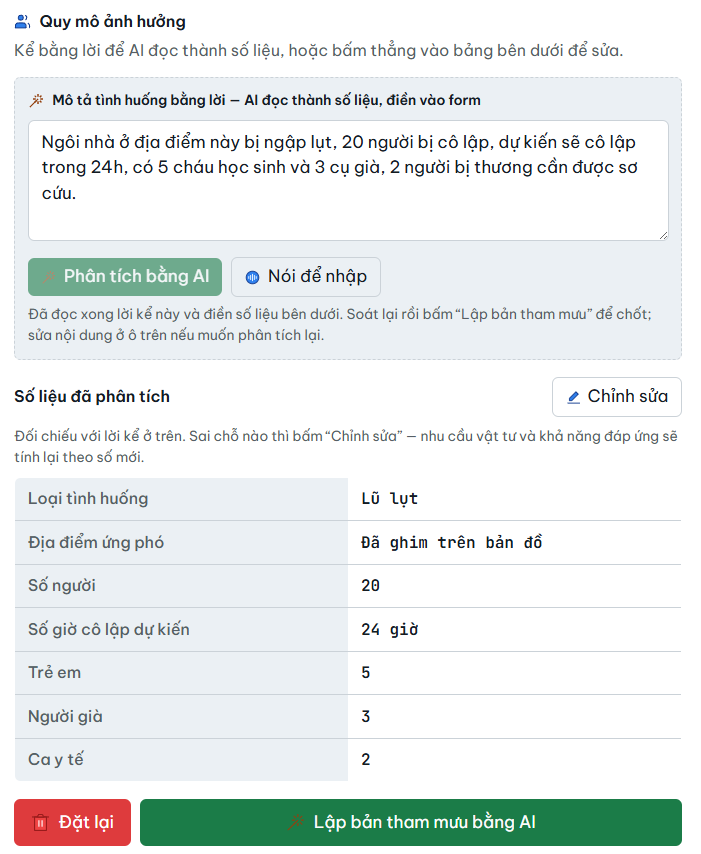
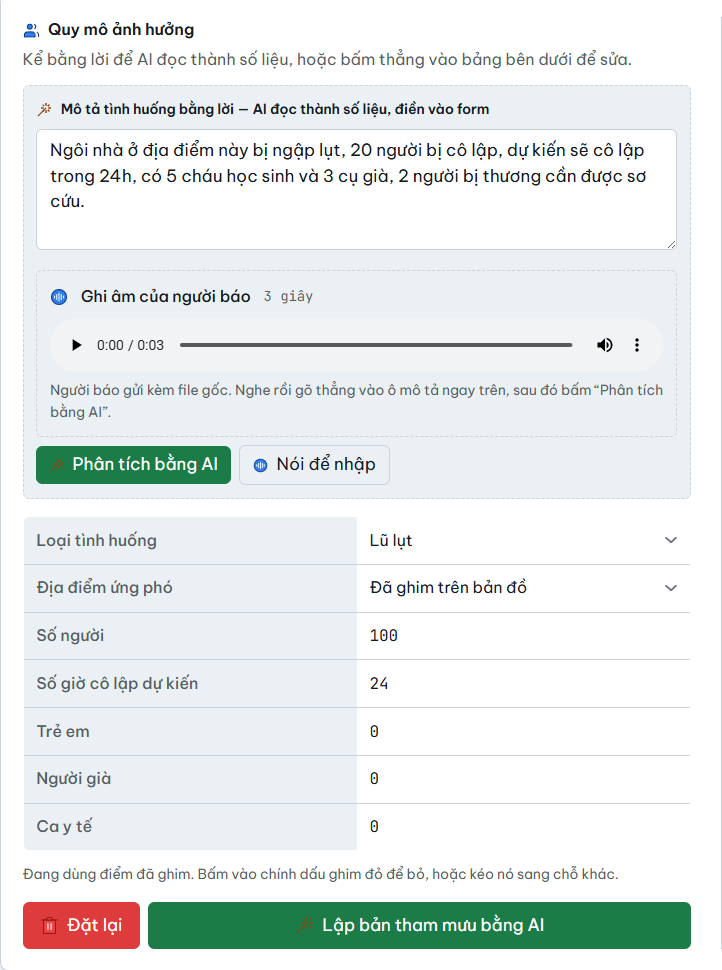
slide: thêm ảnh chụp màn hình và bo góc ảnh cho bộ slide
- Slide 9 ghép hai ảnh màn hình (AI tham mưu, phân tích tình huống) nối bằng
  mũi tên; slide 11 thay bằng ảnh thứ tự lấy hàng kèm bản đồ tuyến; thêm ảnh
  cho slide 5, 13 (điện thoại kho và đội cứu hộ) và 23 (trợ lý AI).
- prep-anh: hỗ trợ extract, nhiều khung cắt từ một ảnh gốc, xuất PNG phóng
  to và làm sắc cho ảnh chụp màn hình để chữ không nhoè khi chiếu.
- Ba bộ render (pptx, pdf, svg) bo góc ảnh theo bán kính card; check.js báo
  dòng chữ rộng hơn khung.

Changed region(s): [[0.0, 0.0304, 1.0, 1.0], [0.0, 0.0, 0.8987, 0.2436], [0.9287, 0.1522, 0.9586, 0.274]]

diff --git a/slide-ung-pho-nhanh/nguon-tao-slide/anh-config.js b/slide-ung-pho-nhanh/nguon-tao-slide/anh-config.js
@@ -7,9 +7,24 @@ module.exports = {
   'hien-truong-2': { w: 3.72, h: 2.7, label: 'ẢNH HIỆN TRƯỜNG 2' },
   'hien-truong-3': { w: 3.72, h: 2.7, label: 'ẢNH HIỆN TRƯỜNG 3' },
   // văn bản A4 dọc: khung để đúng tỷ lệ dọc và cắt từ mép trên để không mất phần đầu thư
-  'thu-quan-tam': { w: 3.2, h: 4.05, label: 'ẢNH CHỤP THƯ QUAN TÂM', position: 'top' },
-  // ảnh chụp màn hình 701×854: khung giữ đúng tỷ lệ gốc để không cắt mất chữ, dpi cao để chữ trên giao diện còn nét
-  'ai-tham-muu': { w: 3.152, h: 3.84, label: 'ẢNH MÀN HÌNH AI THAM MƯU', position: 'top', dpi: 225 },
-  // ảnh chụp màn hình 723×532 cho slide 11 (chọn kho): giữ đúng tỷ lệ, dpi ≈ độ phân giải gốc để khỏi phóng to
-  'chon-kho': { w: 5.4, h: 3.973, label: 'ẢNH MÀN HÌNH THỨ TỰ LẤY HÀNG', position: 'top', dpi: 134 },
+  // extract: cắt bỏ lề trắng của bản scan (vùng chữ + lề 50px) trước khi đưa về khung, để chữ trong thư to hơn
+  'thu-quan-tam': { w: 3.29, h: 4.38, label: 'ẢNH CHỤP THƯ QUAN TÂM', position: 'top', extract: { left: 194, top: 142, width: 1331, height: 1774 } },
+  // slide 9: hai ảnh chụp màn hình thật giữ NGUYÊN VẸN (không cắt), cao hết vùng thân slide (5.04in), nối bằng mũi tên:
+  // form AI tham mưu kèm ghi âm người báo (722×970) → phân tích tình huống và tham mưu điều phối (1435×1143); dpi = độ phân giải gốc
+  'ai-tham-muu': { w: 3.751, h: 5.04, label: 'ẢNH MÀN HÌNH AI THAM MƯU', position: 'top', dpi: 192 },
+  'phan-tich-tinh-huong': { w: 6.328, h: 5.04, label: 'ẢNH PHÂN TÍCH TÌNH HUỐNG', position: 'top', dpi: 227 },
+  // ảnh chụp màn hình 1797×972 cho slide 11 (thứ tự lấy hàng + bản đồ tuyến): bỏ dòng tiêu đề khung "Điều phối kho…"
+  // ở trên và lề hai bên (extract 1762×885); khung cao hết cỡ chỉ chừa một dòng ghi chú bên dưới
+  'chon-kho': { w: 9.248, h: 4.645, label: 'ẢNH MÀN HÌNH THỨ TỰ LẤY HÀNG', position: 'top', dpi: 191, extract: { left: 18, top: 72, width: 1762, height: 885 } },
+  // slide 13 (không card): ba ảnh điện thoại cao bằng nhau 4.452in, nằm trong hai khung màu theo vai trò.
+  // Bộ phận kho (gốc 438×885, nhiệm vụ 856): bỏ phần "Quay lại / Chi tiết nhiệm vụ", giữ hai dòng vật tư đầu.
+  // Đội cứu hộ: bản đồ điểm gặp nạn (gốc 440×618, bỏ nút "Thu gọn bản đồ") và danh sách kho kèm trạng thái
+  // (gốc 438×817, 8 kho; bỏ dòng tiêu đề và mô tả phía trên). Cả ba bỏ lề trắng hai bên; dpi = độ phân giải gốc
+  'kho-chuan-bi': { w: 3.184, h: 4.452, label: 'ẢNH KHO CHUẨN BỊ VẬT TƯ', position: 'top', dpi: 133, extract: { left: 8, top: 66, width: 422, height: 590 } },
+  'doi-cuu-ho-ban-do': { src: 'doi-cuu-ho', w: 3.341, h: 4.452, label: 'ẢNH BẢN ĐỒ ĐỘI CỨU HỘ', position: 'top', dpi: 127, extract: { left: 8, top: 0, width: 424, height: 565 } },
+  'doi-cuu-ho-kho': { w: 2.528, h: 4.452, label: 'ẢNH TRẠNG THÁI TỪNG KHO', position: 'top', dpi: 165, extract: { left: 10, top: 78, width: 418, height: 736 } },
+  // ảnh chụp màn hình trợ lý AI cho slide 23, đã cắt còn 758×530 (bỏ nền trống và ô nhập): khung giữ đúng tỷ lệ gốc
+  'tro-ly-ai': { w: 4.577, h: 3.2, label: 'ẢNH MÀN HÌNH TRỢ LÝ AI', position: 'top', dpi: 166 },
+  // ảnh cán bộ kiểm đếm vật tư bằng sổ tay cho slide 5, gốc 888×666: cắt từ mép trên để giữ gương mặt và cuốn sổ
+  'kho-khan': { w: 4.45, h: 2.6, label: 'ẢNH KIỂM ĐẾM VẬT TƯ THỦ CÔNG', position: 'top', dpi: 199, format: 'jpg' },
 };

diff --git a/slide-ung-pho-nhanh/nguon-tao-slide/prep-anh.js b/slide-ung-pho-nhanh/nguon-tao-slide/prep-anh.js
@@ -1,23 +1,35 @@
-// Cắt ảnh thực tế trong anh/ về đúng tỷ lệ từng khung slide -> anh/da-cat/<slot>.jpg
+// Cắt ảnh thực tế trong anh/ về đúng tỷ lệ từng khung slide -> anh/da-cat/<slot>.jpg (ảnh chụp màn hình: .png)
 const fs = require('fs');
 const path = require('path');
 const sharp = require('sharp');
 const PHOTOS = require('./anh-config');
 
-const SRC = 'anh', OUT = 'anh/da-cat', DPI = 200;
+const SRC = 'anh', OUT = 'anh/da-cat', DPI = 200, SHOT_SCALE = 2;
 const EXT = ['.jpg', '.jpeg', '.png', '.webp', '.heic'];
 
 (async () => {
   fs.mkdirSync(OUT, { recursive: true });
   let done = 0, missing = [];
-  for (const [slot, { w, h, position, dpi = DPI }] of Object.entries(PHOTOS)) {
-    const src = EXT.map((e) => path.join(SRC, slot + e)).find((f) => fs.existsSync(f));
+  for (const [slot, { w, h, position, extract, format, src: base = slot, dpi = DPI }] of Object.entries(PHOTOS)) {
+    // src: tên ảnh gốc khi nhiều khung cùng cắt từ một ảnh (mặc định trùng tên khung)
+    const src = EXT.map((e) => path.join(SRC, base + e)).find((f) => fs.existsSync(f));
     if (!src) { missing.push(slot); continue; }
-    await sharp(src)
-      .rotate() // tôn trọng hướng ảnh chụp từ điện thoại
-      .resize(Math.round(w * dpi), Math.round(h * dpi), { fit: 'cover', position: position || 'attention' })
-      .jpeg({ quality: 88 })
-      .toFile(path.join(OUT, slot + '.jpg'));
+    const img = sharp(src).rotate(); // tôn trọng hướng ảnh chụp từ điện thoại
+    if (extract) img.extract(extract); // cắt sẵn một vùng của ảnh gốc (vd bỏ lề trắng bản scan)
+    // Ảnh chụp màn hình (.png): chữ nhỏ và nét mảnh, JPEG làm nhoè cạnh chữ và ảnh gốc thường chỉ ~130–170 px/in trên
+    // slide nên máy chiếu 1920px phải phóng to -> mờ. Xuất PNG không mất nét, phóng đúng SHOT_SCALE lần (lanczos3) từ
+    // đúng số px gốc để khỏi co giãn lẻ; ảnh chụp thật (.jpg) giữ JPEG như cũ.
+    // format: 'jpg' cho ảnh chụp thật lỡ lưu dạng .png (vd dán từ clipboard) để khỏi thành PNG nặng
+    const shot = format ? format === 'png' : src.endsWith('.png');
+    // ảnh chụp màn hình ít điểm ảnh (dưới 190 px/in trên slide, vd ảnh điện thoại ~440px) phóng 3 lần, còn lại 2 lần;
+    // làm sắc nhẹ sau khi phóng để cạnh chữ không nhoè khi chiếu trên màn hình độ phân giải cao
+    const scale = dpi < 190 ? 3 : SHOT_SCALE;
+    const d = shot ? dpi * scale : dpi;
+    let out = img.resize(Math.round(w * d), Math.round(h * d), { fit: 'cover', position: position || 'attention', kernel: 'lanczos3' });
+    if (shot) out = out.sharpen({ sigma: 1.1, m1: 0.6, m2: 2.2 });
+    const file = path.join(OUT, slot + (shot ? '.png' : '.jpg'));
+    for (const old of ['.png', '.jpg'].map((e) => path.join(OUT, slot + e))) if (old !== file && fs.existsSync(old)) fs.unlinkSync(old);
+    await (shot ? out.png({ compressionLevel: 9 }) : out.jpeg({ quality: 88 })).toFile(file);
     console.log('✓', slot, '<-', src);
     done++;
   }

diff --git a/slide-ung-pho-nhanh/nguon-tao-slide/render-pptx.js b/slide-ung-pho-nhanh/nguon-tao-slide/render-pptx.js
@@ -1,4 +1,5 @@
 // Editable PowerPoint: every text block stays a real text box in Be Vietnam Pro.
+const fs = require('fs');
 const pptxgen = require('pptxgenjs');
 const { SW, SH, PPT_BOLD } = require('./core');
 const slides = require('./slides');
@@ -52,4 +53,28 @@ slides.forEach((s, idx) => {
   if (s.notes) slide.addNotes(s.notes);
 });
 
-pres.writeFile({ fileName: 'Ung-Pho-Nhanh-Slide.pptx' }).then((f) => console.log('pptx written:', f));
+// pptxgenjs chỉ bo ảnh thành elip, nên ảnh có e.r > 0 được đổi prstGeom rect -> roundRect ngay trong XML.
+// Ảnh trong slide XML nằm đúng thứ tự các phần tử img của slide, nên ghép theo thứ tự.
+const JSZip = require('jszip');
+(async () => {
+  const zip = await JSZip.loadAsync(await pres.write({ outputType: 'nodebuffer' }));
+  let rounded = 0;
+  for (let i = 0; i < slides.length; i++) {
+    const imgs = slides[i].els.filter((e) => e.t === 'img');
+    if (!imgs.some((e) => e.r > 0)) continue;
+    const name = `ppt/slides/slide${i + 1}.xml`;
+    let n = 0;
+    const xml = (await zip.file(name).async('string')).replace(/<p:pic>[\s\S]*?<\/p:pic>/g, (pic) => {
+      const e = imgs[n++];
+      if (!e || !(e.r > 0)) return pic;
+      const adj = Math.round((e.r / Math.min(e.w, e.h)) * 100000);
+      rounded++;
+      return pic.replace('<a:prstGeom prst="rect"><a:avLst/></a:prstGeom>',
+        `<a:prstGeom prst="roundRect"><a:avLst><a:gd name="adj" fmla="val ${adj}"/></a:avLst></a:prstGeom>`);
+    });
+    if (n !== imgs.length) throw new Error(`slide ${i + 1}: ${n} ảnh trong XML, ${imgs.length} ảnh trong nguồn`);
+    zip.file(name, xml);
+  }
+  fs.writeFileSync('Ung-Pho-Nhanh-Slide.pptx', await zip.generateAsync({ type: 'nodebuffer', compression: 'DEFLATE' }));
+  console.log('pptx written: Ung-Pho-Nhanh-Slide.pptx, bo góc', rounded, 'ảnh');
+})();

diff --git a/slide-ung-pho-nhanh/nguon-tao-slide/check.js b/slide-ung-pho-nhanh/nguon-tao-slide/check.js
@@ -5,9 +5,19 @@ let bad = 0;
 slides.forEach((s, i) => s.els.forEach((e) => {
   const full = e.w >= 13 && e.h >= 7;           // ảnh nền / lớp phủ
   const chromeRule = e.t === 'rect' && Math.abs(e.y + e.h - 6.87) < 0.02;
-  const footer = e.t === 'text' && e.lines && e.lines[0] === 'ungphonhanh.life';
+  // chân trang: địa chỉ web bên phải, dòng nguồn ảnh (nếu có) bên trái
+  const footer = e.t === 'text' && e.lines && (e.lines[0] === 'ungphonhanh.life' || (e.y >= 6.95 && /^Nguồn/.test(e.lines[0])));
   if (full || chromeRule || footer) return;
   const bot = e.y + (e.h || 0);
   if (bot > LIMIT) { bad++; console.log(`slide${i + 1} ${e.t} đáy ${bot.toFixed(2)}`, e.t === 'text' ? JSON.stringify(e.lines[0]).slice(0, 45) : ''); }
+}));
+// dòng chữ dài hơn khung (thường do tự ngắt dòng bằng lines): PowerPoint sẽ tự xuống dòng và đẩy chữ tràn khỏi khung
+const { widthOf } = require('./core');
+slides.forEach((s, i) => s.els.forEach((e) => {
+  if (e.t !== 'text') return;
+  for (const ln of e.lines) {
+    const lw = widthOf(ln, e.size, e.weight, e.spacing || 0);
+    if (lw > e.w + 0.1) { bad++; console.log(`slide${i + 1} dòng rộng ${lw.toFixed(2)} > khung ${e.w.toFixed(2)}:`, JSON.stringify(ln).slice(0, 60)); }
+  }
 }));
 console.log(bad ? `${bad} phần tử tràn` : `✓ ${slides.length} slide sạch`);

diff --git a/slide-ung-pho-nhanh/nguon-tao-slide/hieu-ung-chu.js b/slide-ung-pho-nhanh/nguon-tao-slide/hieu-ung-chu.js
@@ -20,6 +20,7 @@ const MAX_STEP = 220;   // giãn cách tối đa giữa hai khối (ms)
 function isStatic(e) {
   if (e.w >= 13 && e.h >= 7) return true;                          // nền, scrim, lớp phủ
   if (e.t === 'img' && /mark-sm|logo-sm/.test(e.src)) return true; // logo thương hiệu
+  if (e.hdr) return true;                                           // nhãn dòng chữ xanh ở hàng đầu: hiện sẵn để nhìn vào trước
   if (e.t === 'rect' && e.h <= 0.02) return true;                  // vạch kẻ mảnh
   if (e.t === 'text') {
     const s = (e.lines && e.lines[0]) || '';
@@ -74,7 +75,8 @@ function groupsOf(els) {
     const p = els[i - 1];
     if (e.t === 'rect' && p && prevGi >= 0 && Math.abs(p.x - e.x) < 0.03 && Math.abs(p.y - e.y) < 0.03
       && Math.abs(p.w - e.w) < 0.03 && Math.abs((p.h || 0) - (e.h || 0)) < 0.03) {
-      groups[prevGi].push(i); return;
+      // ghi lại khối của viền: mũi tên đặt giữa hai ảnh có thể bám vào viền thay vì ảnh
+      groups[prevGi].push(i); giOf[i] = prevGi; return;
     }
     if (isBoxEl(e) || isPicEl(e)) {
       groups.push([i]);

diff --git a/slide-ung-pho-nhanh/nguon-tao-slide/render-svg.js b/slide-ung-pho-nhanh/nguon-tao-slide/render-svg.js
@@ -17,7 +17,14 @@ function svgFor(slide) {
   const parts = [];
   for (const e of slide.els) {
     if (e.t === 'img') {
-      parts.push(`<image href="${uri(e.src)}" x="${e.x * S}" y="${e.y * S}" width="${e.w * S}" height="${e.h * S}" preserveAspectRatio="none"/>`);
+      // ảnh bo góc: cắt theo clipPath hình chữ nhật bo góc
+      let clip = '';
+      if (e.r > 0) {
+        const id = `c${parts.length}`;
+        parts.push(`<clipPath id="${id}"><rect x="${e.x * S}" y="${e.y * S}" width="${e.w * S}" height="${e.h * S}" rx="${e.r * S}"/></clipPath>`);
+        clip = ` clip-path="url(#${id})"`;
+      }
+      parts.push(`<image href="${uri(e.src)}" x="${e.x * S}" y="${e.y * S}" width="${e.w * S}" height="${e.h * S}" preserveAspectRatio="none"${clip}/>`);
     } else if (e.t === 'rect') {
       const st = e.line ? ` stroke="${e.line.color}" stroke-opacity="${e.line.alpha}" stroke-width="${e.line.w || 1}"` : '';
       parts.push(`<rect x="${e.x * S}" y="${e.y * S}" width="${e.w * S}" height="${e.h * S}" rx="${(e.r || 0) * S}" fill="${e.fill}" fill-opacity="${e.alpha}"${st}/>`);

diff --git a/slide-ung-pho-nhanh/nguon-tao-slide/render-pdf.js b/slide-ung-pho-nhanh/nguon-tao-slide/render-pdf.js
@@ -14,7 +14,10 @@ for (const slide of slides) {
   doc.rect(0, 0, SW * IN, SH * IN).fill('#04101F');
   for (const e of slide.els) {
     if (e.t === 'img') {
+      doc.save();
+      if (e.r > 0) doc.roundedRect(e.x * IN, e.y * IN, e.w * IN, e.h * IN, e.r * IN).clip(); // ảnh bo góc
       doc.image(e.src, e.x * IN, e.y * IN, { width: e.w * IN, height: e.h * IN });
+      doc.restore();
     } else if (e.t === 'rect') {
       doc.save();
       const x = e.x * IN, y = e.y * IN, w = e.w * IN, h = e.h * IN, r = (e.r || 0) * IN;

diff --git a/slide-ung-pho-nhanh/nguon-tao-slide/anh/DOC-TRUOC-KHI-THEM-ANH.md b/slide-ung-pho-nhanh/nguon-tao-slide/anh/DOC-TRUOC-KHI-THEM-ANH.md
@@ -13,11 +13,17 @@ Chưa có ảnh nào thì slide vẫn dựng được — chỗ đó hiện khun
 | Tên file | Dùng ở slide | Ảnh cần dùng | Nguồn |
 |---|---|---|---|
 | `boi-canh.jpg` | 02 — Bối cảnh | Cứu hộ chở người dân trên xuồng giữa vùng ngập | Báo Dân Trí |
+| `kho-khan.png` | 05 — Vấn đề | Cán bộ kiểm đếm vật tư phòng chống thiên tai bằng sổ ghi chép tay | — |
 | `hien-truong-1.jpg` | 04 — Hiện trường | Người mặc áo phao đứng trên mái nhà, nước ngập gần tới mái | — |
 | `hien-truong-2.jpg` | 04 — Hiện trường | Mặt đường bị nước xé toạc, giao thông bị chia cắt | Báo Thanh Niên |
 | `hien-truong-3.jpg` | 04 — Hiện trường | Trao vật tư cứu trợ từ xuồng cho người dân đứng dưới nước | Báo Thanh Niên |
 | `ai-tham-muu.png` | 09 — AI tham mưu | Chụp màn hình form “Quy mô ảnh hưởng” sau khi AI đã phân tích lời kể | Chụp màn hình hệ thống |
-| `chon-kho.png` | 11 — Chọn kho tiếp tế | Chụp màn hình “Thứ tự lấy hàng (gần đến xa)” | Chụp màn hình hệ thống |
+| `phan-tich-tinh-huong.png` | 09 — AI tham mưu (ảnh 2/3) | Chụp màn hình “Phân tích tình huống và tham mưu điều phối” (script tự cắt bỏ cột Sửa/Xoá và dòng phân trang) | Chụp màn hình hệ thống |
+| `dieu-phoi-noi-xa.png` | 09 — AI tham mưu (ảnh 3/3) | Chụp màn hình “Điều phối nội xã” và “Mượn vật tư liên xã” | Chụp màn hình hệ thống |
+| `chon-kho.png` | 11 — Chọn kho tiếp tế | Chụp màn hình “Điều phối kho”: thứ tự lấy hàng (gần đến xa) và bản đồ tuyến đường | Chụp màn hình hệ thống |
+| `tro-ly-ai.png` | 23 — Trợ lý AI | Chụp màn hình khung chat trợ lý ảo (đã cắt bỏ nền trống và ô nhập) | Chụp màn hình hệ thống |
+| `doi-cuu-ho.png` | 13 — Xác nhận & thông báo | Chụp màn hình điện thoại đội cứu hộ: bản đồ điểm gặp nạn + danh sách kho (script tách đôi) | Chụp màn hình hệ thống |
+| `kho-chuan-bi.png` | 13 — Xác nhận & thông báo | Chụp màn hình điện thoại bộ phận kho: chuẩn bị theo vật tư | Chụp màn hình hệ thống |
 | `thu-quan-tam.jpg` | 24 — Thư quan tâm | Ảnh chụp lá thư của Hội Chữ thập đỏ xã Đồng Xuân | Nhóm tự chụp |
 
 Script tự xoay ảnh theo hướng chụp của điện thoại và tự cắt vào vùng có nội dung

diff --git a/slide-ung-pho-nhanh/HUONG-DAN.md b/slide-ung-pho-nhanh/HUONG-DAN.md
@@ -35,7 +35,7 @@ Mở lại PowerPoint sau khi cài.
 | 6 | Giải pháp — bốn mắt xích, người điều phối rẽ đôi tới kho và đội cứu hộ |
 | 7 | Quy trình: tổng quan 6 bước |
 | 8 | Quy trình: nhấn bước 1 + 2 |
-| 9 | Đi sâu bước 2 — AI lập bản tham mưu — **có ảnh chụp màn hình thật** bên trái |
+| 9 | Đi sâu bước 2 — AI lập bản tham mưu — **có 2 ảnh chụp màn hình thật** bên trái |
 | 10 | Quy trình: nhấn bước 3 |
 | 11 | Đi sâu bước 3 — chọn kho tiếp tế — **có ảnh chụp màn hình thật** bên trái |
 | 12 | Quy trình: nhấn bước 4 |
@@ -64,7 +64,7 @@ nói chèn ở slide 20 nếu dư thời gian.
 
 ### Ảnh thực tế — slide 2, 4, 9, 11 và 24
 
-Bốn ảnh hiện trường đợt mưa lũ tháng 11/2025 và ảnh chụp thư quan tâm, cùng hai ảnh chụp màn hình (AI tham mưu, thứ tự lấy hàng), **đã được ghép sẵn**
+Bốn ảnh hiện trường đợt mưa lũ tháng 11/2025 và ảnh chụp thư quan tâm, cùng ba ảnh chụp màn hình (AI tham mưu, bảng vật tư tham mưu, thứ tự lấy hàng), **đã được ghép sẵn**
 vào slide. Ảnh gốc nằm ở `nguon-tao-slide/anh/`, bản đã cắt vừa khung ở `anh/da-cat/`.
 
 | Slide | Ảnh | Nguồn |
@@ -74,7 +74,8 @@ vào slide. Ảnh gốc nằm ở `nguon-tao-slide/anh/`, bản đã cắt vừa
 | 4 | Cứu hộ đưa người già và trẻ nhỏ ra khỏi vùng ngập | — |
 | 4 | Trao vật tư cứu trợ tới từng nhà bằng xuồng | Báo Thanh Niên |
 | 9 | Màn hình AI đọc lời kể thành số liệu | Chụp màn hình hệ thống |
-| 11 | Màn hình thứ tự lấy hàng từ gần đến xa | Chụp màn hình hệ thống |
+| 9 | Bảng vật tư trong bản tham mưu (đã cắt bỏ cột Sửa/Xoá và dòng phân trang) | Chụp màn hình hệ thống |
+| 11 | Màn hình thứ tự lấy hàng từ gần đến xa kèm bản đồ tuyến đường | Chụp màn hình hệ thống |
 | 24 | Thư quan tâm Hội Chữ thập đỏ xã Đồng Xuân | Nhóm tự chụp |
 
 Nguồn ảnh báo chí được ghi ở dòng dưới ba ảnh slide 4:
